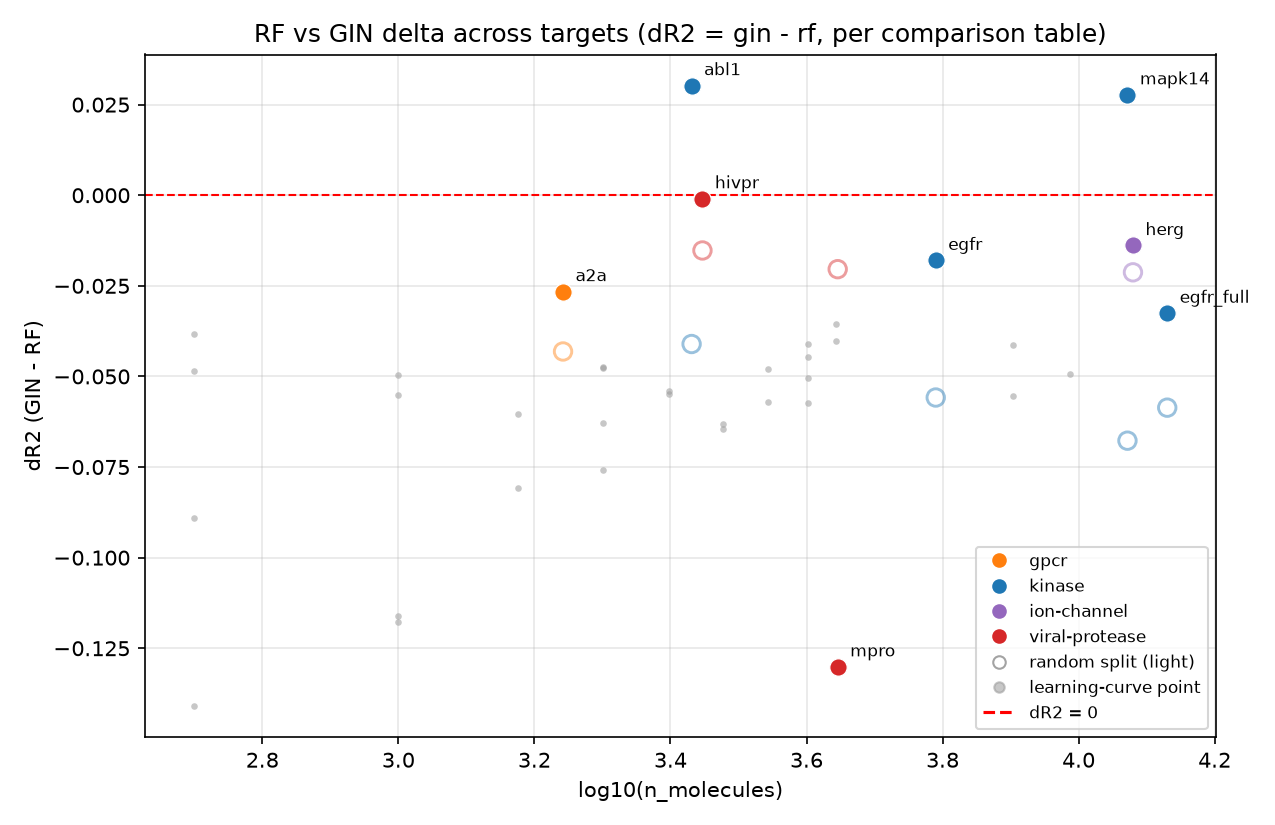
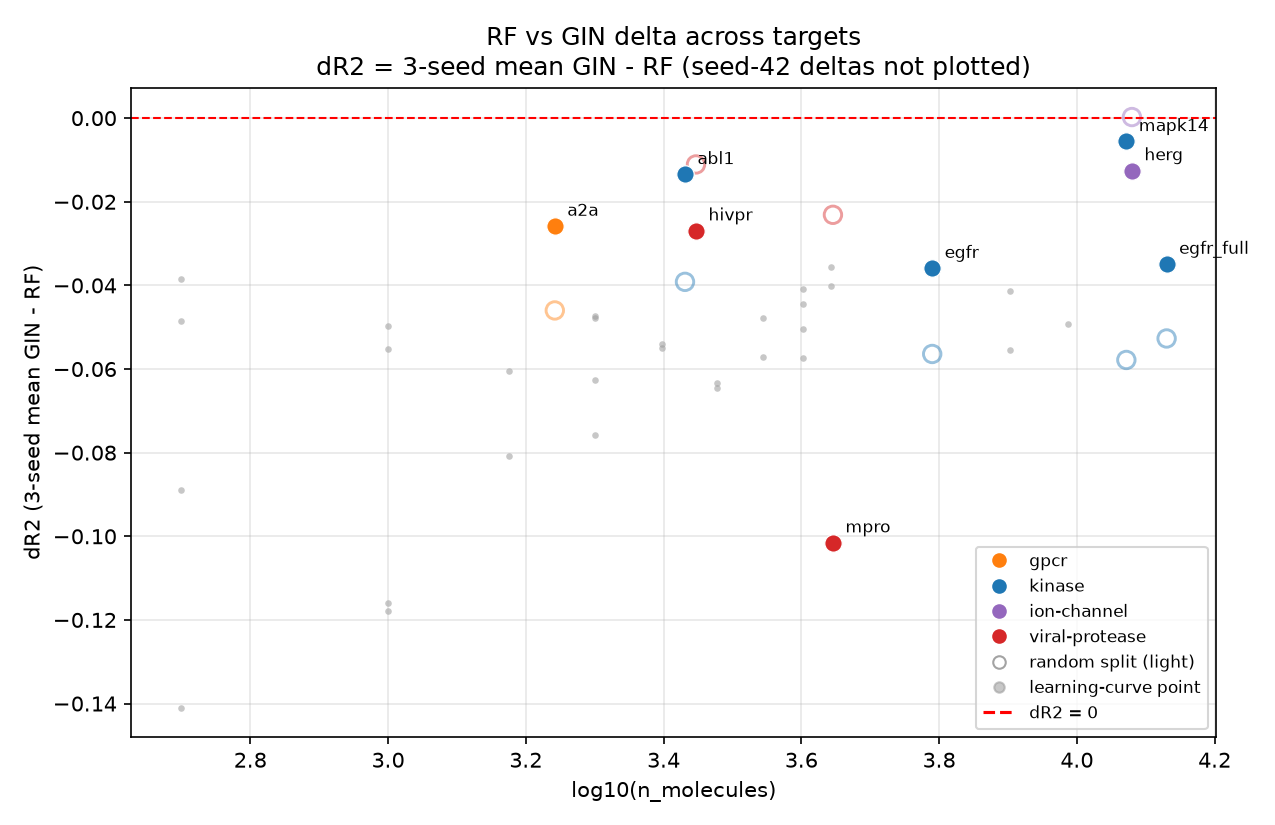
results: multi_target summary.csv/figure to mean-based delta
README section 8 / Conclusions 7 and experiments/LOG.md already judge on
the 3-seed mean (0753c96), but summary.csv and delta_vs_n.png still used
the comparison files' d_r2_gin_minus_rf - a seed-42 single-seed delta -
so the figure drew abl1 and VEGFR2 scaffold above the zero line while the
text says no target gives the GIN a clear lead.

multi_target_summary.py (the only script touched):
- d_r2_random / d_r2_scaffold are now gin_r2_mean - rf_r2, computed at
  full precision from the comparison table; the CSV headers spell this
  out as "d_r2_random (mean)" / "d_r2_scaffold (mean)".
- two new columns d_r2_seed42_random / d_r2_seed42_scaffold keep the old
  single-seed values as reference, in the requested trailing position.
- figure y values pick up the mean-based deltas automatically; axis label
  and title now say "dR2 (3-seed mean GIN - RF)"; the grey learning-curve
  overlay was already mean-based (mean r2 per model over seeds) and is
  documented as such.
- console conclusion rewritten for the mean convention: per-split range
  and win counts, the all-cells tally, plus a reference line showing what
  the seed-42 column would have claimed (2 scaffold wins).
- new verify_summary_csv() re-reads the file it just wrote, checks every
  (mean) cell round-trips against gin_r2_mean - rf_r2 and that the seed-42
  columns survived, then prints the tally; a failure exits non-zero.

Re-run over all 8 tags: 8 rows, 16 cells -> 15 negative, 1 tie
[…]

diff --git a/experiments/multi_target_summary.py b/experiments/multi_target_summary.py
@@ -13,11 +13,24 @@ Inputs (per tag):
                                                    (n_train, d_r2) points
                                                    are overlaid on the figure
 
-d_r2 always keeps the comparison file's sign convention:
-d_r2_gin_minus_rf = gin_r2 - rf_r2 (positive = GIN wins).
+Effect-size convention (README interview point 6: single-seed GNN numbers
+are noise - GIN scaffold R2 spreads +-0.02 across seeds), so the summary
+columns, the console conclusion and the figure all use the 3-seed mean:
+
+  d_r2_* (mean)   = gin_r2_mean - rf_r2, computed from the comparison
+                    table at full precision (positive = GIN wins)
+  d_r2_seed42_*   = the comparison table's own d_r2_gin_minus_rf, i.e. the
+                    single seed-42 GIN run minus RF -- reference only,
+                    because that is what the raw comparison files report
+
+The learning-curve overlay points are already mean-based (mean r2 per
+model over the seeds at that n), so they share the same convention.
 
 Outputs:
-  results/multi_target/summary.csv       one row per tag
+  results/multi_target/summary.csv       one row per tag; the d_r2 columns
+                                         are the mean-based effect size and
+                                         the two d_r2_seed42_* columns hold
+                                         the single-seed reference
   figures/multi_target/delta_vs_n.png    dR2 vs log10(n_molecules),
                                          scaffold filled / random light
                                          hollow, coloured by protein family
@@ -55,12 +68,33 @@ FAMILY_COLOR = {
 }
 DEFAULT_FAMILY_COLOR = "tab:grey"
 SPLITS = ("random", "scaffold")
+# Column order for summary.csv. The "d_r2_* (mean)" columns are the primary
+# effect size (3-seed mean GIN - RF); the d_r2_seed42_* columns keep the
+# comparison file's single-seed delta as a reference.
 SUMMARY_COLS = [
     "tag", "family", "n_molecules",
-    "rf_r2_random", "gin_r2_mean_random", "gin_r2_std_random", "d_r2_random",
+    "rf_r2_random", "gin_r2_mean_random", "gin_r2_std_random",
+    "d_r2_random (mean)",
     "rf_r2_scaffold", "gin_r2_mean_scaffold", "gin_r2_std_scaffold",
-    "d_r2_scaffold",
+    "d_r2_scaffold (mean)",
+    "d_r2_seed42_random", "d_r2_seed42_scaffold",
 ]
+
+
+def summary_frame(rows):
+    """DataFrame ready for summary.csv.
+
+    Internal row keys keep the short names (d_r2_random / d_r2_scaffold,
+    both already mean-based); this maps them onto the on-disk "(mean)"
+    headers so the CSV spells the convention out.
+    """
+    recs = []
+    for r in rows:
+        rec = dict(r)
+        rec["d_r2_random (mean)"] = r["d_r2_random"]
+        rec["d_r2_scaffold (mean)"] = r["d_r2_scaffold"]
+        recs.append(rec)
+    return pd.DataFrame(recs, columns=SUMMARY_COLS)
 
 
 def parse_args():
@@ -114,14 +148,20 @@ def load_tag(tag):
         r = hit.iloc[0] if has_row else None
         row[f"rf_r2_{split}"] = float(r["rf_r2"]) if has_row else np.nan
         if has_row and has_gin:
-            row[f"gin_r2_mean_{split}"] = float(r["gin_r2_mean"])
+            gm = float(r["gin_r2_mean"])
+            rf = float(r["rf_r2"])
+            row[f"gin_r2_mean_{split}"] = gm
             row[f"gin_r2_std_{split}"] = float(r["gin_r2_std"])
-            # keep the comparison file's gin-minus-rf sign as-is
-            row[f"d_r2_{split}"] = float(r["d_r2_gin_minus_rf"])
+            # primary effect size: 3-seed mean GIN - RF, at full precision
+            row[f"d_r2_{split}"] = gm - rf
+            # reference only: the comparison table's single-seed (seed-42)
+            # d_r2_gin_minus_rf, kept so the two conventions sit side by side
+            row[f"d_r2_seed42_{split}"] = float(r["d_r2_gin_minus_rf"])
         else:
             row[f"gin_r2_mean_{split}"] = np.nan
             row[f"gin_r2_std_{split}"] = np.nan
             row[f"d_r2_{split}"] = np.nan
+            row[f"d_r2_seed42_{split}"] = np.nan
     if not np.isfinite(row["d_r2_scaffold"]) and not np.isfinite(row["d_r2_random"]):
         print(f"[{tag}] skipped: comparison has no GIN columns "
               f"(RF-only table)")
@@ -130,7 +170,12 @@ def load_tag(tag):
 
 
 def load_curve_points(tag):
-    """[(split, n_train, d_r2)] from the learning-curve CSV, if present."""
+    """[(split, n_train, d_r2)] from the learning-curve CSV, if present.
+
+    Already mean-based: r2 is averaged over the seeds within each
+    (split, n_train, model) group, so the point is mean_gin - mean_rf and
+    matches the summary's d_r2_* (mean) convention.
+    """
     path = os.path.join(BASE, "results", "learning_curve",
                         f"learning_curve_{tag}.csv")
     if not os.path.exists(path):
@@ -149,6 +194,8 @@ def load_curve_points(tag):
 
 def print_table(rows):
     print("\n=== Cross-target summary: RF (Morgan FP) vs GIN ===")
+    print("    dR2 = 3-seed mean GIN - RF (the campaign effect size); "
+          "seed-42 deltas are kept in the CSV only")
     print(f"{'tag':<10} {'family':<15} {'n':>6} | "
           f"{'RF r2':>6} {'GIN r2 (mean+-std)':>20} {'dR2':>7} | "
           f"{'RF r2':>6} {'GIN r2 (mean+-std)':>20} {'dR2':>7}")
@@ -173,15 +220,38 @@ def print_table(rows):
 
 
 def print_conclusion(rows):
-    scaf = [r for r in rows if np.isfinite(r.get("d_r2_scaffold", np.nan))]
-    wins = [r for r in scaf if r["d_r2_scaffold"] > 0]
-    names = ", ".join(r["tag"] for r in wins) if wins else "none"
-    print(f"\nConclusion: on the scaffold split GIN beats RF on "
-          f"{len(wins)}/{len(scaf)} targets ({names}); "
-          f"GIN-RF delta range "
-          f"[{min(r['d_r2_scaffold'] for r in scaf):+.3f}, "
-          f"{max(r['d_r2_scaffold'] for r in scaf):+.3f}]."
-          if scaf else "\nConclusion: no scaffold-split GIN results to compare.")
+    """Console verdict under the 3-seed mean convention (README section 8).
+
+    A cell is a tie when it rounds to 0.000 at 3 decimals - that is the
+    band README calls "no clear lead".
+    """
+    cells = [(r["tag"], split, float(r[f"d_r2_{split}"]))
+             for split in SPLITS for r in rows
+             if np.isfinite(r.get(f"d_r2_{split}", np.nan))]
+    if not cells:
+        print("\nConclusion: no GIN results to compare.")
+        return
+
+    neg = [(t, s) for t, s, d in cells if round(d, 3) < 0]
+    tie = [(t, s) for t, s, d in cells if round(d, 3) == 0]
+    pos = [(t, s) for t, s, d in cells if round(d, 3) > 0]
+
+    print("\nConclusion (3-seed mean convention, dR2 = 3-seed mean GIN - RF):")
+    for split in SPLITS:
+        vals = [d for _, s, d in cells if s == split]
+        wins = [t for t, s, d in cells if s == split and round(d, 3) > 0]
+        print(f"  {split:<9}: GIN ahead on {len(wins)}/{len(vals)} targets "
+              f"(dR2 range [{min(vals):+.3f}, {max(vals):+.3f}])")
+    print(f"  all cells : {len(neg)} of {len(cells)} negative, "
+          f"{len(tie)} tie ({', '.join(t for t, _ in tie) if tie else 'none'}), "
+          f"{len(pos)} positive -> no target gives the GIN a clear lead")
+    seed42_scaf_wins = [r["tag"] for r in rows
+                        if np.isfinite(r.get("d_r2_seed42_scaffold", np.nan))
+                        and r["d_r2_seed42_scaffold"] > 0]
+    if seed42_scaf_wins:
+        print(f"  reference : the single-seed (seed-42) column would report "
+              f"{len(seed42_scaf_wins)} scaffold win(s) "
+              f"({', '.join(seed42_scaf_wins)}) - not used for any verdict")
 
 
 def make_figure(rows, curve_points, fig_path):
@@ -192,7 +262,9 @@ def make_figure(rows, curve_points, fig_path):
     os.makedirs(os.path.dirname(os.path.abspath(fig_path)), exist_ok=True)
     fig, ax = plt.subplots(figsize=(8.5, 5.5))
 
-    # learning-curve dR2 points (x = log10(n_train)): small grey background dots
+    # learning-curve dR2 points (x = log10(n_train)): small grey background
+    # dots. load_curve_points already averages r2 over the seeds per model,
+    # so these share the same 3-seed mean convention as the target markers.
     if curve_points:
         xs = [np.log10(n) for _, n, _ in curve_points]
         ys = [d for _, _, d in curve_points]
@@ -222,9 +294,9 @@ def make_figure(rows, curve_points, fig_path):
 
     ax.axhline(0, color="red", linestyle="--", linewidth=1, label="dR2 = 0")
     ax.set_xlabel("log10(n_molecules)")
-    ax.set_ylabel("dR2 (GIN - RF)")
-    ax.set_title("RF vs GIN delta across targets (dR2 = gin - rf, "
-                 "per comparison table)")
+    ax.set_ylabel("dR2 (3-seed mean GIN - RF)")
+    ax.set_title("RF vs GIN delta across targets\n"
+                 "dR2 = 3-seed mean GIN - RF (seed-42 deltas not plotted)")
     ax.grid(alpha=0.3)
 
     handles = [plt.Line2D([], [], marker="o", ls="", color=FAMILY_COLOR.get(f, DEFAULT_FAMILY_COLOR),
@@ -240,6 +312,52 @@ def make_figure(rows, curve_points, fig_path):
     fig.tight_layout()
     fig.savefig(fig_path, dpi=150)
     plt.close(fig)
+
+
+def verify_summary_csv(path):
+    """Re-read summary.csv and check the mean convention actually landed.
+
+    Independent of the in-memory rows: it works off the file that was just
+    written, so a column-rename or ordering mistake cannot pass. Checks
+    that every "d_r2_* (mean)" cell equals gin_r2_mean - rf_r2 at full
+    precision and that the seed-42 reference columns survived, then prints
+    the negative / tie / positive tally over all cells (a cell is a tie
+    when it rounds to 0.000 at 3 decimals) so it can be compared with the
+    claim in README section 8. Returns False on any mismatch; main() turns
+    that into a non-zero exit (skipped tags still exit 0).
+    """
+    df = pd.read_csv(path)
+    mean_cols = [f"d_r2_{s} (mean)" for s in SPLITS]
+    seed42_cols = [f"d_r2_seed42_{s}" for s in SPLITS]
+    ok = True
+
+    missing = [c for c in mean_cols + seed42_cols if c not in df.columns]
+    if missing:
+        print(f"[verify] MISSING columns in summary.csv: {missing}")
+        ok = False
+
+    cells = []
+    for split in SPLITS:
+        mc = f"d_r2_{split} (mean)"
+        if mc not in df.columns:
+            continue
+        expected = df[f"gin_r2_mean_{split}"] - df[f"rf_r2_{split}"]
+        if not np.allclose(df[mc].to_numpy(float), expected.to_numpy(float),
+                           rtol=0, atol=1e-12):
+            print(f"[verify] {mc} does not equal gin_r2_mean - rf_r2 "
+                  f"(round-trip failed)")
+            ok = False
+        cells += [(t, split, float(d)) for t, d in zip(df["tag"], df[mc])
+                  if np.isfinite(d)]
+
+    neg = [(t, s) for t, s, d in cells if round(d, 3) < 0]
+    tie = [(t, s) for t, s, d in cells if round(d, 3) == 0]
+    pos = [(t, s) for t, s, d in cells if round(d, 3) > 0]
+    tie_txt = ", ".join(f"{t}/{s}" for t, s in tie) or "none"
+    print(f"[verify] summary.csv round-trip: "
+          f"{'OK' if ok else 'FAILED'} | {len(df)} rows, {len(cells)} cells -> "
+          f"{len(neg)} negative, {len(tie)} tie ({tie_txt}), {len(pos)} positive")
+    return ok
 
 
 def main():
@@ -266,7 +384,8 @@ def main():
 
     out_path = os.path.abspath(args.out)
     os.makedirs(os.path.dirname(out_path), exist_ok=True)
-    pd.DataFrame(rows, columns=SUMMARY_COLS).to_csv(out_path, index=False)
+    summary_frame(rows).to_csv(out_path, index=False)
+    verified = verify_summary_csv(out_path)
 
     print_table(rows)
     print_conclusion(rows)
@@ -275,6 +394,8 @@ def main():
     make_figure(rows, curve_points, fig_path)
     print(f"\ncsv     -> {os.path.relpath(out_path, BASE)} ({len(rows)} rows)")
     print(f"figure  -> {os.path.relpath(fig_path, BASE)}")
+    if not verified:
+        raise SystemExit("summary.csv failed the mean-convention self-check")
 
 
 if __name__ == "__main__":
